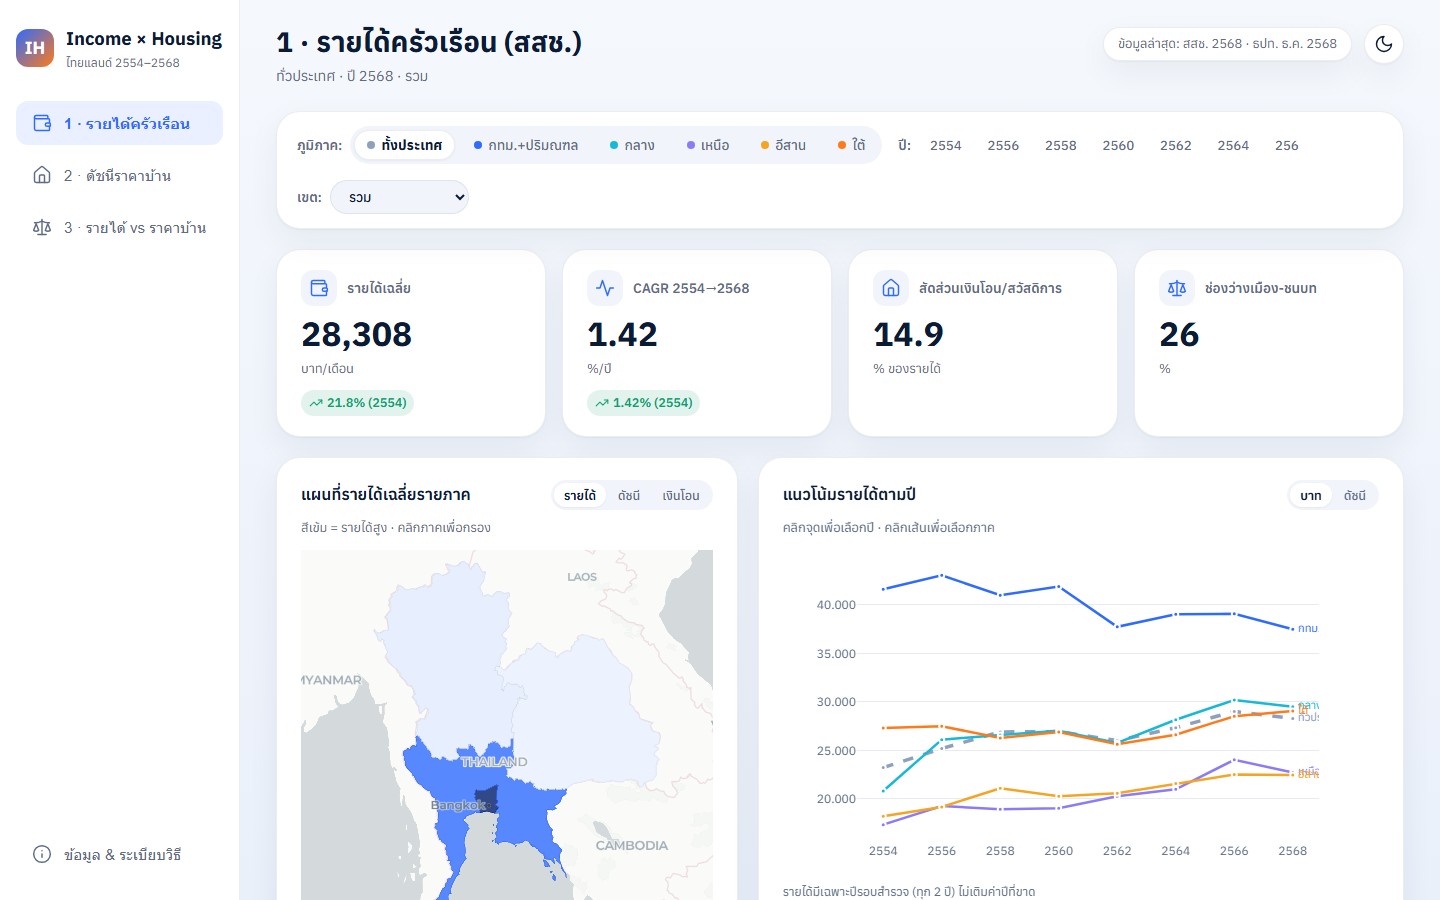
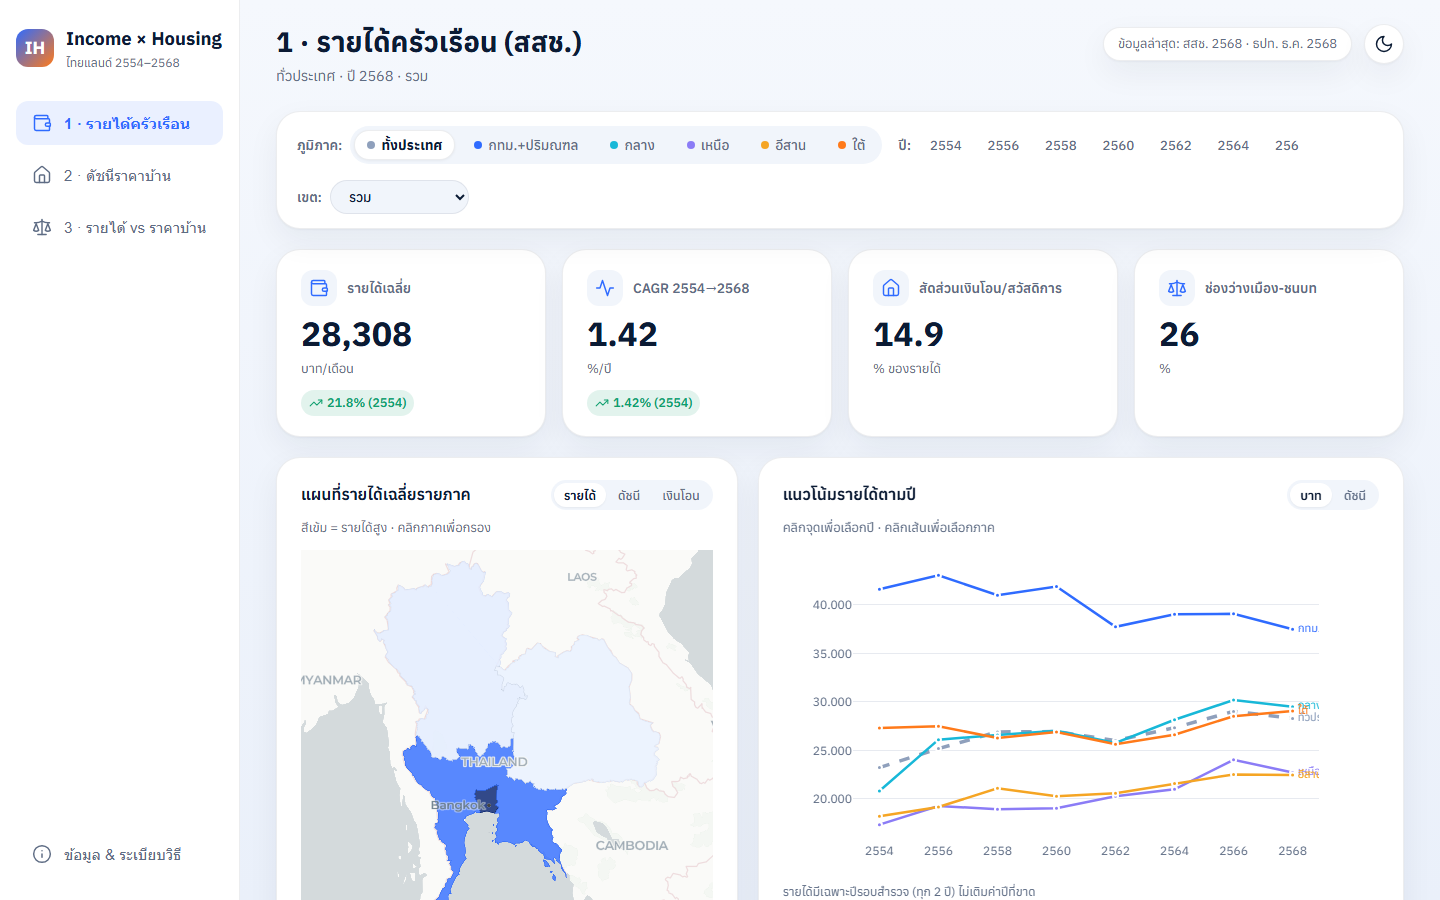
fix: resolve Plotly Treemap parent vs children sum validation bug in Tab 1

diff --git a/app/figures/tab1.py b/app/figures/tab1.py
@@ -379,11 +379,15 @@ def fig_treemap(data: dict, theme: str = "dark") -> dict:
         for reg in data.get("regions", []):
             reg_name = reg["region"]
             tot = reg["monthly_income"]
+            groups = reg.get("groups", [])
+            children_sum = sum(g["amount"] for g in groups)
+            parent_val = children_sum if children_sum > 0 else tot
+
             # Parent node
             reg_id = f"REG_{reg['region_id']}"
             labels.append(reg_id)
             parents.append("")
-            values.append(tot)
+            values.append(parent_val)
             texts.append(f"<b>{reg_name} · {tot:,.0f} บาท</b>")
             customdata.append([100.0, reg_name])
             marker_colors.append(t["surface_2"])
